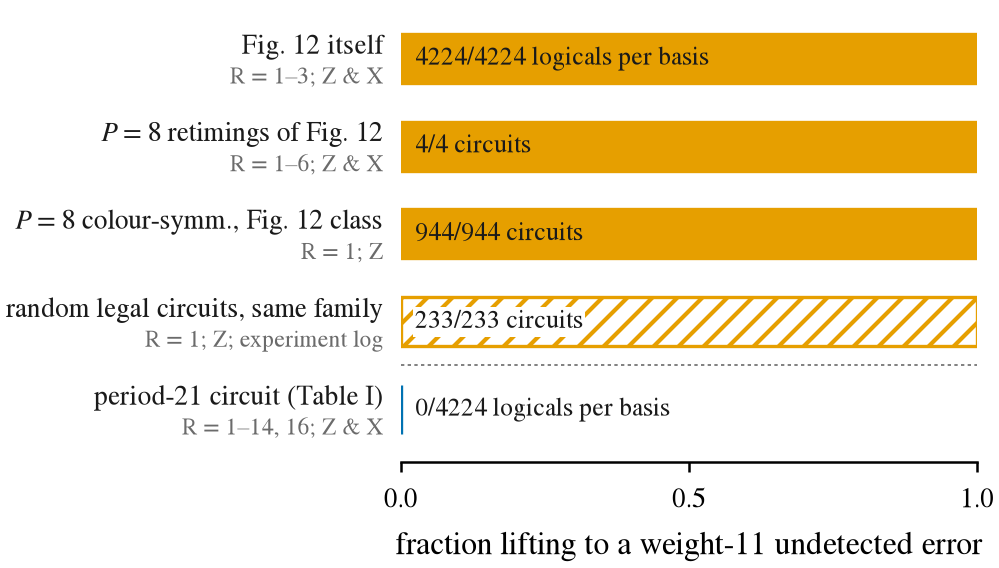
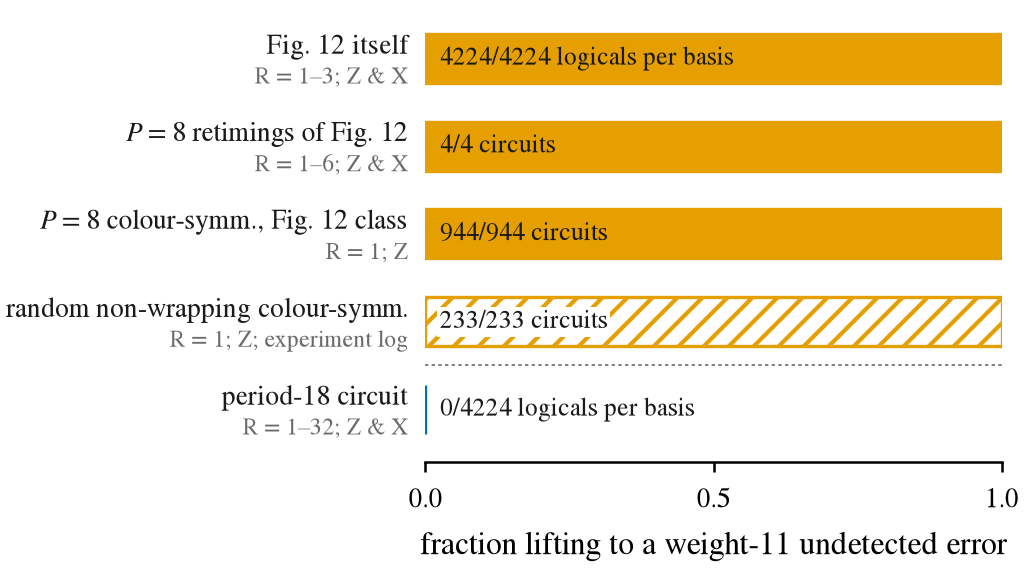
paper: Fig. 2 last row now cs_P18_H24 (0/4224, R=1..32, both bases; auditor E-024b, cross-checked with E-024a cert R=1..36)

diff --git a/paper/scripts/fig2_lift.py b/paper/scripts/fig2_lift.py
@@ -3,7 +3,7 @@
   uv run python paper/scripts/fig2_lift.py
 
 Bar = fraction of the row's units that lift to a weight-11 undetected circuit error.
-Units: rows "Fig. 12" and "period 21" count the 4224 weight-11 extended logicals per basis (one circuit);
+Units: rows "Fig. 12" and "period 18" count the 4224 weight-11 extended logicals per basis (one circuit);
 the other rows count circuits (a circuit counts if at least one weight-11 extended logical lifts).
 Data (read-only, data archive) and the claims_map.md counts asserted:
   C13/C34 Fig. 12 4224/4224: results/E-018-audit/a9_fig12.json, results/E-021-audit/b3_fig12_{Z_1,X_1-2}.json
@@ -11,12 +11,14 @@ Data (read-only, data archive) and the claims_map.md counts asserted:
   C38 944/944: results/E-021-audit/b9_p8.json
   C39 233/233 lift, 0 certified (experiment log, in STATE; not re-run by the auditor):
       results/E-021-gross-new-orders/randsat_summary.json
-  C34 cand_p21 0/4224, R=1..14,16, both bases: results/E-021-audit/cand_p21/b3_cand_{X,Z}_*.json
+  E-024b A-a cs_P18_H24 0/4224, R=1..32, both bases (auditor): results/E-024b-audit/cs_P18/b3_cand_*.json;
+      cross-checked with experimenter results/E-024a-gross12-period/cert_cs_P18_H24_{X,Z}.jsonl (R=1..36)
 The unaudited 39/39 reasoned-candidate count is deliberately not plotted (figures_plan rev. c).
 """
 from __future__ import annotations
 
 import glob
+import json
 import re
 
 from fig_common import BLUE, COLW, GREY, INK, ORANGE, ROOT, check, load, save, style
@@ -74,18 +76,28 @@ def main():
     check(rs["samples"] == 2277 and len(ex) == 233, "C39: 2277 sampled, 233 exact-lifted")
     nl = sum(e["status"] == "lifts" for e in ex)
     check(nl == 233 and rs["certified"] == 0, "C39: 233/233 lift, 0 certified")
-    rows.append(dict(name="random legal circuits, same family", det=f"R = {rng(e['R'] for e in ex)}; {bases(ex)}",
+    rows.append(dict(name="random non-wrapping colour-symm.", det=f"R = {rng(e['R'] for e in ex)}; {bases(ex)}",
                      num=nl, den=len(ex), unit="circuits", audited=False))
-    # 5. cand_p21 (C34)
+    # 5. cs_P18_H24, the period-18 headline circuit (STATE item 13; audit 2026-10-11-E-024b sec. A-a)
     cp = []
-    for f in sorted(glob.glob(str(ROOT / "results/E-021-audit/cand_p21/b3_cand_*.json"))):
+    for f in sorted(glob.glob(str(ROOT / "results/E-024b-audit/cs_P18/b3_cand_*.json"))):
         cp += load(str(f).replace(str(ROOT) + "/", ""))
-    check(len(cp) > 0, "cand_p21 lift files present")
-    check(all(r["of"] == 4224 and r["lifting"] == 0 for r in cp), "C34: cand_p21 0/4224")
-    check(all(r["telescoping_bad"] == 0 and r["bad_obs"] == 0 and r["keys"] == 360 for r in cp), "C33 checks")
+    check(len(cp) == 64, f"A-a: 64 auditor lift groups (R=1..32 x 2 bases), got {len(cp)}")
+    check(all(r["of"] == 4224 and r["lifting"] == 0 for r in cp), "A-a: cs_P18_H24 0/4224")
+    check(all(r["telescoping_bad"] == 0 and r["bad_obs"] == 0 and r["keys"] == 360 for r in cp),
+          "Table I / template-identity checks")
     for b in "XZ":
-        check(sorted(r["R"] for r in cp if r["basis"] == b) == list(range(1, 15)) + [16], f"C34: R=1..14,16 ({b})")
-    rows.append(dict(name="period-21 circuit (Table I)", det=f"R = {rng(r['R'] for r in cp)}; {bases(cp)}",
+        check(sorted(r["R"] for r in cp if r["basis"] == b) == list(range(1, 33)), f"A-a: R=1..32 ({b})")
+    # experimenter's certification (R=1..36) must agree wherever both exist
+    ex24 = []
+    for b in "XZ":
+        ex24 += [json.loads(x) for x in (ROOT / f"results/E-024a-gross12-period/cert_cs_P18_H24_{b}.jsonl")
+                 .read_text().splitlines() if x.strip()]
+    check(all(r["spec"].endswith("cs_P18_H24.json") and r["of"] == 4224 and r["lifting"] == 0 for r in ex24),
+          "experimenter cert: 0/4224")
+    check({(r["basis"], r["R"]) for r in cp} <= {(r["basis"], r["R"]) for r in ex24}, "experimenter covers R=1..32")
+    print("experimenter cert R range", rng(r["R"] for r in ex24), bases(ex24))
+    rows.append(dict(name="period-18 circuit", det=f"R = {rng(r['R'] for r in cp)}; {bases(cp)}",
                      num=0, den=4224, unit="logicals per basis", audited=True))
     for r in rows:
         print(r)
